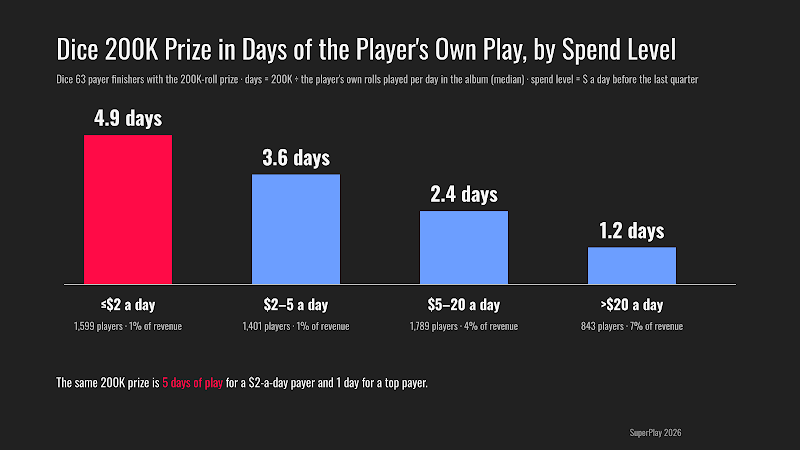
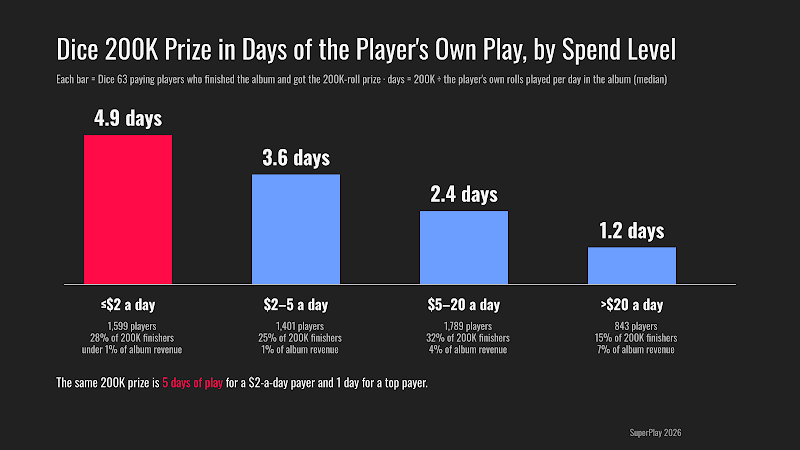
Topic 7b: Dice >$20 finishers after-album dip is one album only; clearer t7a labels

diff --git a/claude/slide_t7_dice_prize_2026-10-25.py b/claude/slide_t7_dice_prize_2026-10-25.py
@@ -38,18 +38,18 @@ def t7a(idx=None):   # 200K prize in days of own play, by spend level (Dice 63 p
     S, BASE, PER = 't7a_slide', 3.55, 0.38   # inches per day of play
     msg = 'The same 200K prize is 5 days of play for a $2-a-day payer and 1 day for a top payer.'
     R = page(S, 'Dice 200K Prize in Days of the Player\'s Own Play, by Spend Level',
-             'Dice 63 payer finishers with the 200K-roll prize · days = 200K ÷ the player\'s own rolls played per day in the album (median) · spend level = $ a day before the last quarter',
+             'Each bar = Dice 63 paying players who finished the album and got the 200K-roll prize · days = 200K ÷ the player\'s own rolls played per day in the album (median)',
              msg, msg_red='5 days of play', idx=idx)
-    data = [('≤$2 a day', 4.9, '1,599 players · 1% of revenue', RED),
-            ('$2–5 a day', 3.6, '1,401 players · 1% of revenue', BLUE),
-            ('$5–20 a day', 2.4, '1,789 players · 4% of revenue', BLUE),
-            ('>$20 a day', 1.2, '843 players · 7% of revenue', BLUE)]
+    data = [('≤$2 a day', 4.9, '1,599 players\n28% of 200K finishers\nunder 1% of album revenue', RED),   # Eden 2026-10-24: say who the players are
+            ('$2–5 a day', 3.6, '1,401 players\n25% of 200K finishers\n1% of album revenue', BLUE),
+            ('$5–20 a day', 2.4, '1,789 players\n32% of 200K finishers\n4% of album revenue', BLUE),
+            ('>$20 a day', 1.2, '843 players\n15% of 200K finishers\n7% of album revenue', BLUE)]
     for i, (lab, d, who, c) in enumerate(data):
         x, h = 1.05 + i * 2.1, d * PER
         R += rect(S, f'{S}_b{i}', x, BASE - h, 1.1, h, c)
         R += tbox(S, f'{S}_v{i}', x - 0.3, BASE - h - 0.45, 1.7, 0.4, f'{d} days', 18, WHITE, True, 'CENTER')
         R += tbox(S, f'{S}_l{i}', x - 0.4, BASE + 0.06, 1.9, 0.3, lab, 13, WHITE, True, 'CENTER')
-        R += tbox(S, f'{S}_w{i}', x - 0.4, BASE + 0.36, 1.9, 0.25, who, 9, GREY, False, 'CENTER')
+        R += tbox(S, f'{S}_w{i}', x - 0.5, BASE + 0.36, 2.2, 0.55, who, 9, GREY, False, 'CENTER')
     R += rect(S, f'{S}_base', 0.8, BASE, 8.4, 0.012, GREY)
     return R
 
@@ -110,7 +110,8 @@ Who changes (album 63): less for 3,722 payers whose prize is 4+ days of own play
 Main measure: % who buy in the 7 days after close. Also: week-1 spend vs own album pace, next-album revenue per payer, rolls given (cost).
 Guardrail: album revenue and finish rate in the test album must not drop (a smaller prize may lower the will to finish).
 If the prize cannot go down ("never less"), run only the top-payer arm first.
-Not proven: that the prize causes the slow return; the data shows a link only (previous slide)."""
+Not proven: that the prize causes the slow return; the data shows a link only (previous slide).
+Checked 2026-10-24 (topic7-top-payers-2026-10-24.md): >$20 finishers start the next album at about 95% of own pace (first 4 days after close; albums 61 and 65). Album 63 (84%) was a one-album dip that hit finishers at every spend level. So the top-payer arm rests on the prize being small for them (1 day of play), not on a proven drop in their spend."""
 }
 def notes():
     print(json.dumps(NOTES, ensure_ascii=False))

diff --git a/claude/topic7-top-payers-2026-10-24.md b/claude/topic7-top-payers-2026-10-24.md
@@ -1,0 +1,35 @@
+# Topic 7b: Dice >$20 a day finishers — is the after-album drop real? (2026-10-24)
+
+Question (Eden): keep checking the drop of >$20 payers in Dice. In topic 7, album 63 >$20 finishers spent 85% of their own pace in the week after close (album 61: 103%).
+SQL: `claude/topic7_top_payers_2026-10-24.sql` (`dice-dreams-dbt.50_reporting.user_daily_album`, 107 GB).
+
+## Definitions
+- Population, spend level, finished status: as topic 6 / topic 7 (standard-population payers; level = album $ a day before the last quarter; finished = 144 on close−1).
+- **After window = first 4 days after the close day** (close+1 … close+4 = next album days 2–5). Reason: album 65 closed 2026-10-19 and the data runs to 2026-10-24, so only 4 full days exist for it; the same 4 days are used for all three albums so they compare. 7-day numbers are given for 61 / 63 only.
+- After vs own pace = group spend per day in the window ÷ group album pace per day. Bought = any purchase in the 4 days.
+- >$20 split into $20–50 / $50–100 / >$100 a day: my cut (round numbers), to see whether a few big payers drive the drop.
+- Gap = pace × 4 − spend in the 4 days (gap to own pace, not a forecast).
+
+## Results — finishers, first 4 days after close (album 61 / 63 / 65)
+| Spend level | Players | % of album revenue | After vs own pace | Bought in 4 days | Gap in 4 days |
+|---|---|---|---|---|---|
+| $2–5 | 3,488 / 5,007 / 5,044 | 3% / 4% / 4% | 132% / 112% / 126% | 55% / 55% / 64% | none |
+| $5–20 | 3,476 / 4,572 / 5,422 | 7% / 9% / 11% | 111% / 100% / 108% | 66% / 69% / 75% | none |
+| $20–50 | 837 / 1,092 / 1,288 | 5% / 6% / 7% | 107% / 88% / 93% | 78% / 80% / 83% | none / $15,650 / $10,349 |
+| $50–100 | 212 / 267 / 306 | 3% / 3% / 4% | 88% / 89% / 108% | 78% / 85% / 86% | $7,082 / $8,080 / none |
+| >$100 | 104 / 98 / 130 | 3% / 3% / 4% | 86% / 71% / 85% | 89% / 85% / 89% | $9,549 / $18,262 / $13,040 |
+| **All >$20** | 1,153 / 1,457 / 1,724 | 11% / 12% / 15% | **96% / 84% / 95%** | 79% / 81% / 84% | $9,904 / $41,992 / $17,042 |
+
+(The 7-day after-week for album 63 >$20 finishers: 84%; album 61: 103% — same picture as topic 7.)
+
+## Reading
+- **Fact:** the >$20 drop is one album. Album 65's >$20 finishers start album 67 at 95% of their own pace, the same as album 61 (96%). Album 63: 84%.
+- **Fact:** in album 63, finishers at every level started the next album lower than in 61 and 65 ($2–5: 112% vs 132% / 126%; $5–20: 100% vs 111% / 108%; >$20: 84% vs 96% / 95%). So the dip is about the start of album 65 (the album after 63), not something special about top payers.
+- **Fact:** the share who buy stays the same (79–84% of >$20 finishers in all three albums); the dip was in how much they spent.
+- **Fact:** >$100 a day is 98–130 players; 71% in album 63 vs 85–86% is noise-sized (a few players move it).
+- **Hypothesis (not checked):** something in album 65's first days (offers, events, album design) was weaker for paying finishers. Check the album 65 day 2–5 calendar if it matters.
+- **Side fact:** >$20 payers who do **not** finish are the big steady gap in the same 4 days: about $192,000–$233,000 short of their own pace in every album ($20–50 alone $103,250 / $130,048 / $115,266). That is the topic 6 message (far payers start the next album slowly), not a new one.
+
+## What this changes
+- No new slide (the result is "no lasting problem"; one-line note added to t7c speaker notes).
+- t7c top-payer arm: rests on the prize being small for them (about 1 day of play), not on a proven spend drop.

diff --git a/INDEX.md b/INDEX.md
@@ -95,6 +95,7 @@
 | **ספירה מחדש — מסיימים, תזמון, אחרי השלמה, שיעורי סיום בקבוצות (2026-10-19)** | finisher-recount-2026-10-19 | finisher_recount_queries.sql | ✔ | שיעור סיום משלמים 11.2 / 7.7 / 5.2%; חלק בהכנסה 29 / 30 / 21%; יום הסגירה = 15–27% מהמסיימים; מסיימי יום הסגירה בדייס הכי איטיים (×0.65–0.77 בימים 1–3) |
 | **הספירות שנשארו — מדבקה אחרונה, הוצאה בסוף, מסלולים, פאזל (2026-10-20)** | remaining-recounts-2026-10-20 | remaining_recounts_queries.sql | ✔ | ההגדרה לא משנה אף מסר: ווילד/ג'וקר 89 / 95 / 79%; מסיימי יום הסגירה מעלים פחות בסוף; בלי ווילד/ג'וקר בשבוע האחרון 2–4% מסיימים (כולם ביום הסגירה) |
 | **נושא 7 — מסיימי דייס והפרס הגדול: מי, כמה ימי משחק, מי קונה אחרי (2026-10-25)** | topic7-dice-prize-2026-10-25 | topic7_dice_prize_2026-10-25.sql | ✔ (תצפיתי) | אותו פרס 200K = 5 ימי משחק למשלם ≤$2 ויום אחד למשלם >$20; פרס גדול ביחס למשחק → פחות קונים בשבוע אחרי (55% → 42%); הצעת טסט: פרס לפי משחק השחקן. שקופיות t7a–t7c |
+| נושא 7ב — ירידת משלמי $20+ שסיימו בדייס (2026-10-24) | topic7-top-payers-2026-10-24 | topic7_top_payers_2026-10-24.sql | ✔ | הירידה (84%) רק באלבום 63 ובכל הרמות; באלבומים 61 ו־65 משלמי $20+ חוזרים ל־95–96% מהקצב. הפער הקבוע = משלמי $20+ שלא סיימו |
 | אירועים אחרי האלבום, חזרה להרגל, פרס גדול בדייס (2026-10-19) | post-album-events-2026-10-19 | post_album_events_queries.sql ועוד | ✔ (תצפיתי) | רק בדייס מסיימים חוזרים לקנות מתחת להרגל; המניע = מלאי גלגולים מהפרס הגדול |
 | שבוע אחרון בשלושת המשחקים | endgame-last-week-2026-10-14 (תיקוני הביקורת גוברים), endgame-last-week-dice-2026-10-14 | מוטמע במסמכים | ✔ | שער בסוף; סיומים בימים האחרונים; סגנונות סגירה |
 | חלון מכירה, מצב 8 ימים לפני, תוצאות, השוואה מותאמת | endgame-s1-s4-disney-vs-dice | **לא שמור בפרויקט** (שיעורי סיום לפי מסלול שוחזרו ב־remaining_recounts_queries.sql) | ✔ (אומדני הכנסה ✖ — מחליפים סימן) | דיסני משלים כחצי; יחס הוצאה דומה לשחקנים דומים → בעיית השלמות, לא הוצאה |

diff --git a/claude/topic7-dice-prize-2026-10-25.md b/claude/topic7-dice-prize-2026-10-25.md
@@ -2,7 +2,7 @@
 
 Eden (2026-10-24 handoff): continue alone — who are the Dice finishers who come back slowly, what happens to the 200K players, how to improve the prize and for whom (a test proposal). Little text, visual, add slides to ALBUM END.
 SQL: `claude/topic7_dice_prize_2026-10-25.sql` (`dice-dreams-dbt`, 130 GB: `50_reporting.user_daily_album` + `30_intermediate.user_daily_rolls_in_out`).
-Slides: t7a_slide, t7b_slide, t7c_slide (after s6b_slide). Generator: `claude/slide_t7_dice_prize_2026-10-25.py`. Thumbnails: `claude/slides/t7a.png`, `t7b.png`, `t7c.png`.
+Slides: t7a_slide, t7b_slide, t7c_slide (after s6b_slide). 2026-10-24: t7a labels rewritten after Eden did not understand "1% of revenue" (now: players, % of 200K finishers, % of album revenue; subtitle says who each bar is). Generator: `claude/slide_t7_dice_prize_2026-10-25.py`. Thumbnails: `claude/slides/t7a.png`, `t7b.png`, `t7c.png`.
 
 ## Definitions
 - Population, spend level, finished and the after-week: exactly as topic 6 (`topic6-after-album-2026-10-24.md`). Standard-population payers; spend level = album $ a day before the last quarter (own pace); finished = 144 on close−1 (Dice daily table); after-week = 7 days after the close day (next album days 2–8).
@@ -54,4 +54,4 @@ Prize sized to the player's own play (about 2–3 days of own rolls), Control = 
 
 ## Open
 - Dice 65 → 67 after-week is not complete yet (67 day 8 = 2026-10-27); re-run with albums 63/65 after that.
-- Is the >$20 album-63 drop (85% of pace) repeated in Dice 65? If yes, it is a bigger $ question than the light-payer prize.
+- ~~Is the >$20 album-63 drop (85% of pace) repeated in Dice 65?~~ Checked 2026-10-24: no — album 65 >$20 finishers start at 95% of pace (4 days), like album 61; album 63 was a one-album dip at every level. See `topic7-top-payers-2026-10-24.md`.
